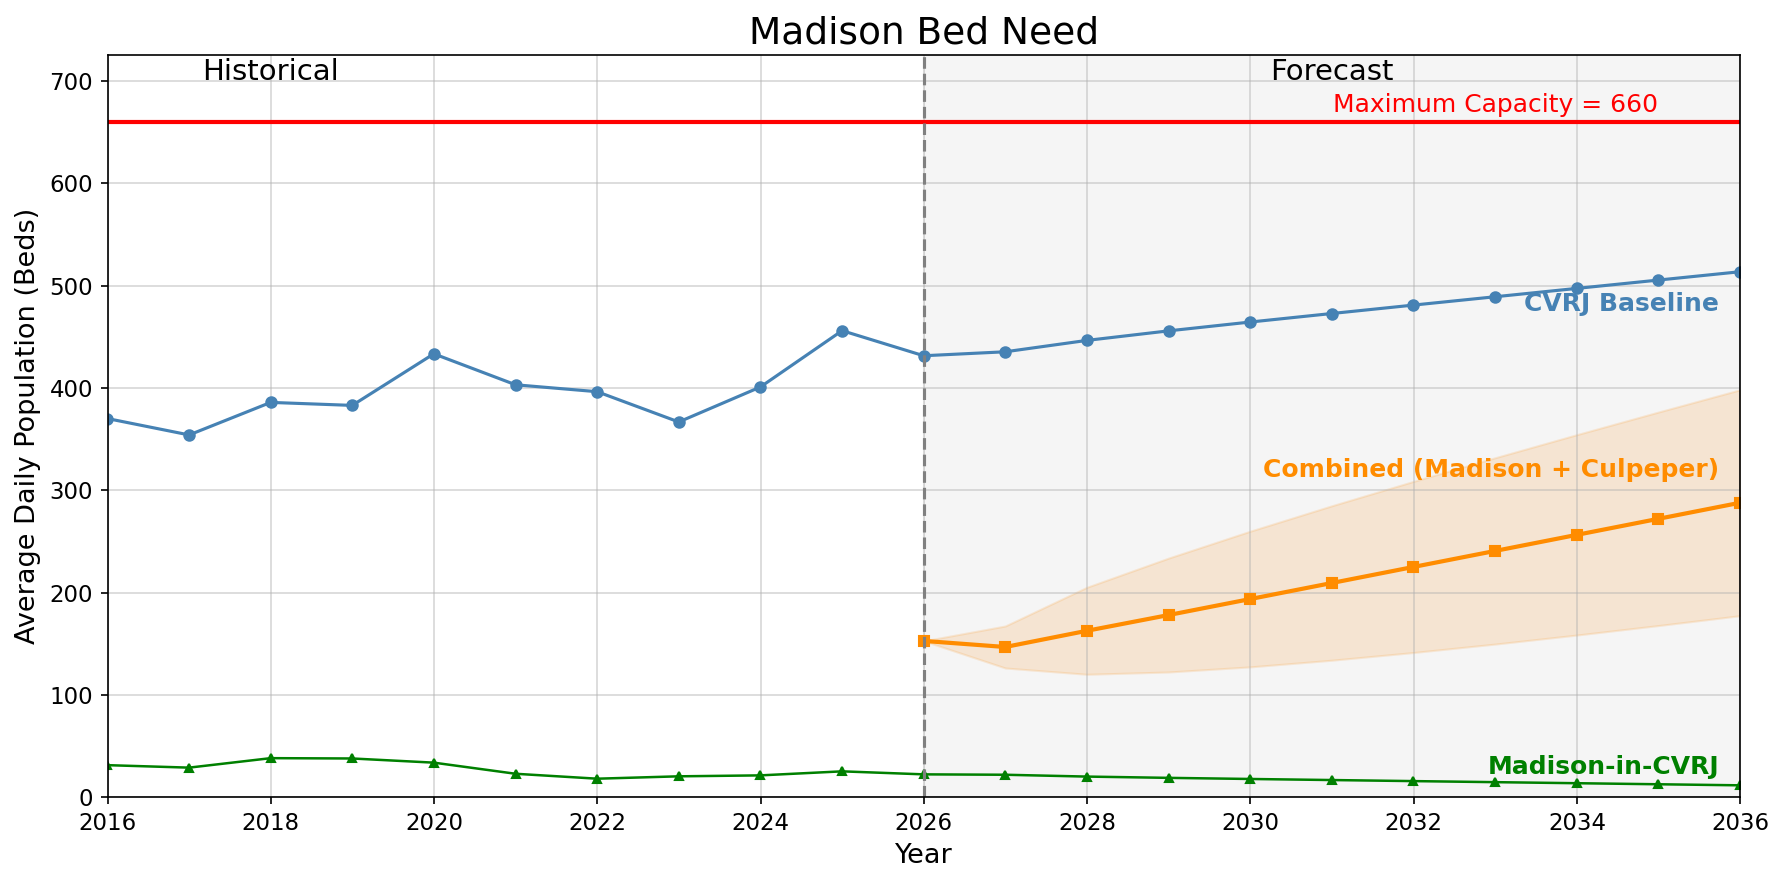
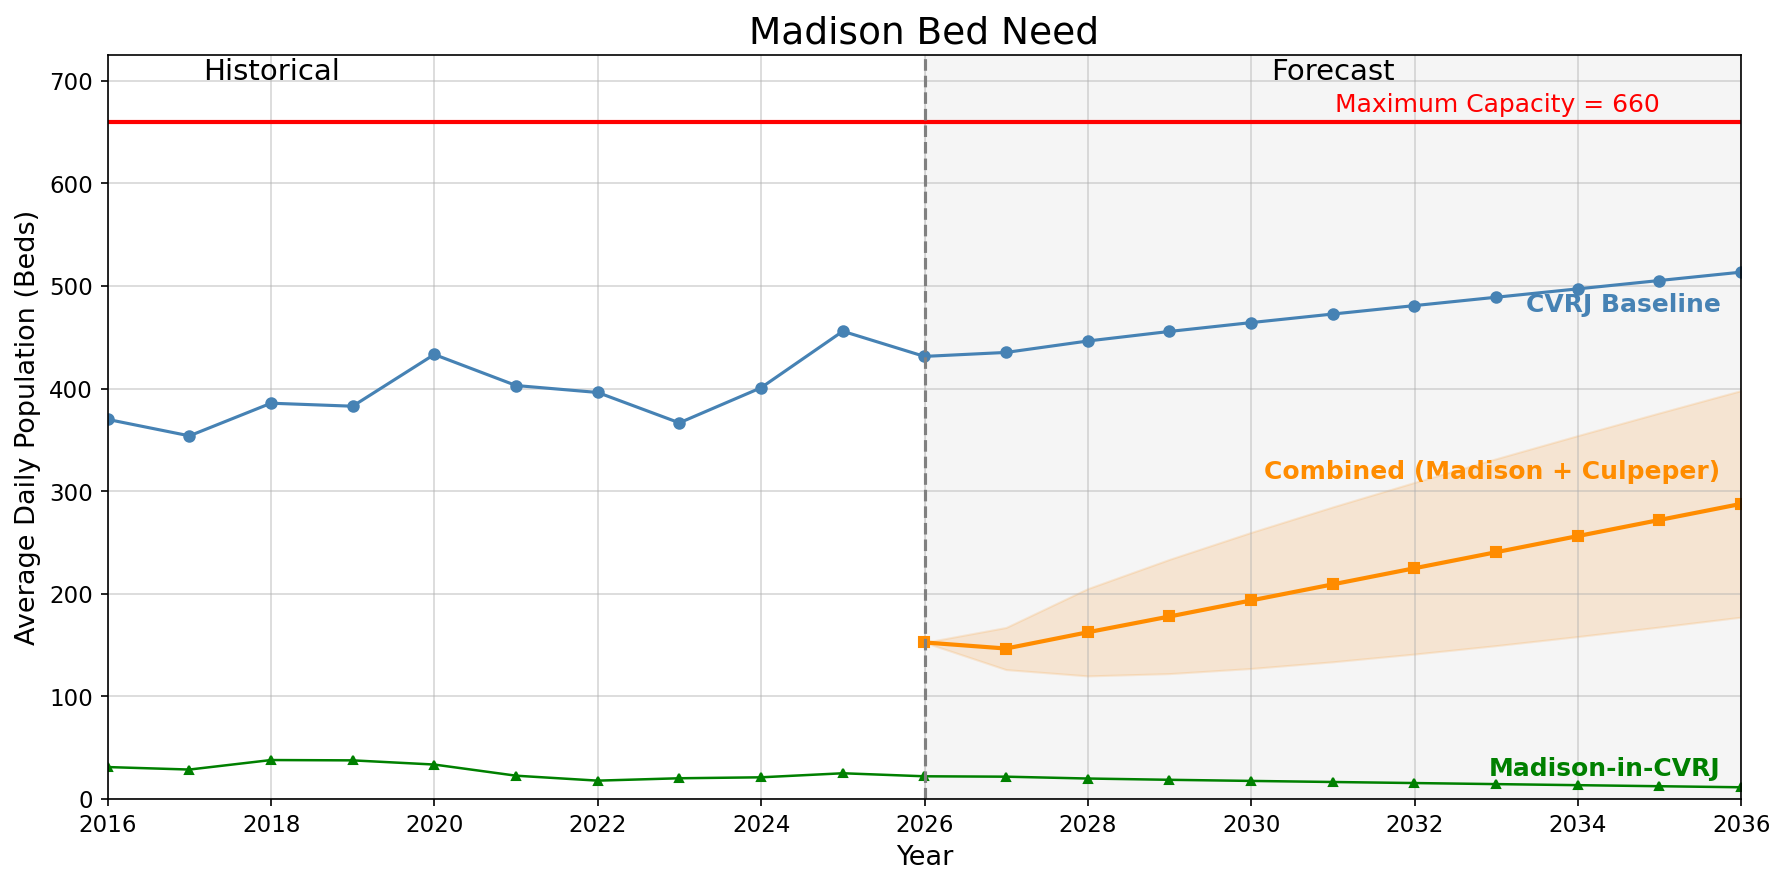
lightening gray on forecast side of visuals

diff --git a/scripts/08_capacity_forecast_by_jurisdiction.py b/scripts/08_capacity_forecast_by_jurisdiction.py
@@ -78,7 +78,7 @@ def plot_all_jurisdictions_only(cvrj_adp, years_future, county_series):
     # Keep forecast split marker to match existing visuals.
     ax.axvline(x_forecast, color="gray", linestyle="--", linewidth=1.2)
     ymin, ymax = ax.get_ylim()
-    ax.axvspan(x_forecast, all_years[-1], alpha=0.18, color="gray")
+    ax.axvspan(x_forecast, all_years[-1], alpha=0.12, color="gray")
     ax.set_ylim(ymin, ymax)
 
     ax.set_xlim(pd.Timestamp("2016-01-01"), pd.Timestamp("2036-01-01"))
@@ -172,7 +172,7 @@ def plot_jurisdiction(jur, cvrj_adp, cvrj_forecast, culp_hist_adp, culp_forecast
     # Historical J-in-CVRJ annual ADP
     df_j = df_cvrj[df_cvrj["County Code"] == code].copy()
     daily_j = compute_daily_census(df_j)
-    ann_j = daily_j.resample("YE").mean()
+    ann_j = daily_j.resample("Y").mean()
 
     pop_j = load_population_series(name)
     j_forecast, j_se = fit_sarimax_with_se(ann_j, pop_j, steps=len(years_future), label=f"{name} in CVRJ")
@@ -323,7 +323,7 @@ def main():
         name = jur["name"]
         df_j = df[df["County Code"] == code].copy()
         daily_j = compute_daily_census(df_j)
-        ann_j = daily_j.resample("YE").mean().reindex(hist_years).fillna(0.0)
+        ann_j = daily_j.resample("Y").mean().reindex(hist_years).fillna(0.0)
         pop_j = load_population_series(name)
         j_forecast, _ = fit_sarimax_with_se(ann_j, pop_j, steps=len(years_future), label=f"{name} in CVRJ")
         if j_forecast is None:

diff --git a/scripts/07_capacity_forecast_visualization.py b/scripts/07_capacity_forecast_visualization.py
@@ -165,7 +165,7 @@ def plot_capacity(ax, annual_cvrj_adp, years_future, cvrj_forecast_vals, combine
     if draw_forecast_marker:
         ax.axvline(x=x_forecast, color='gray', linestyle='--', linewidth=1.5, zorder=0)
         ymin, ymax = ax.get_ylim()
-        ax.axvspan(x_forecast, all_years[-1], alpha=0.18, color='gray', zorder=0)
+        ax.axvspan(x_forecast, all_years[-1], alpha=0.12, color='gray', zorder=0)
         ax.set_ylim(ymin, ymax)
         # Place the \"Historical\" / \"Forecast\" labels well away from the capacity line
         # so they don't overlap the red 660-bed line.
